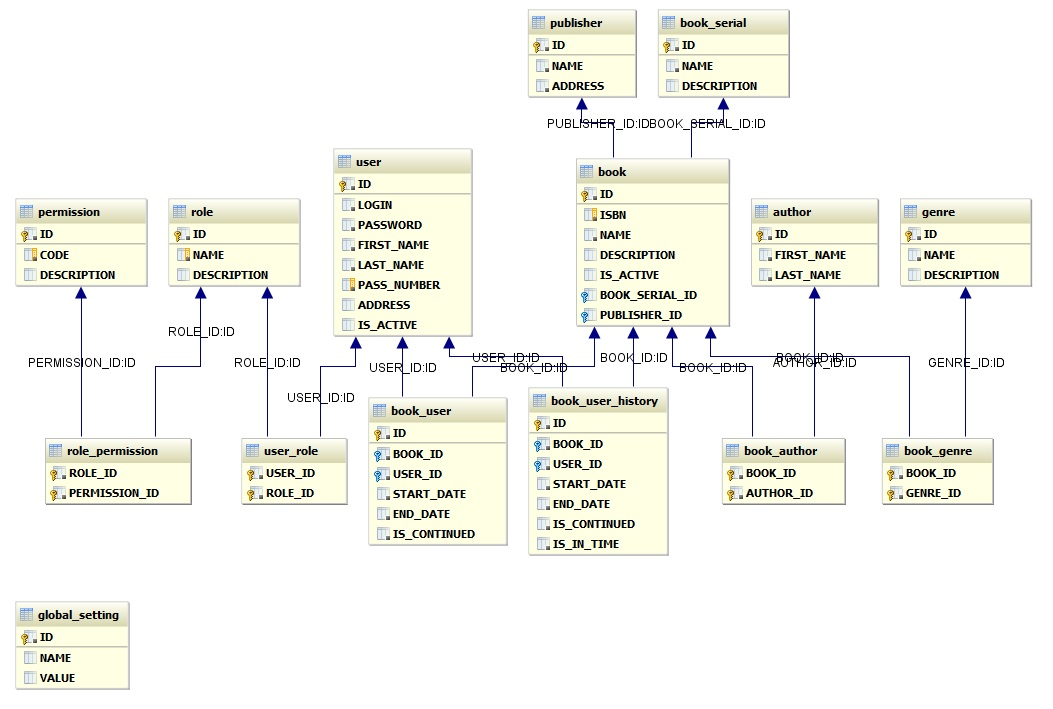
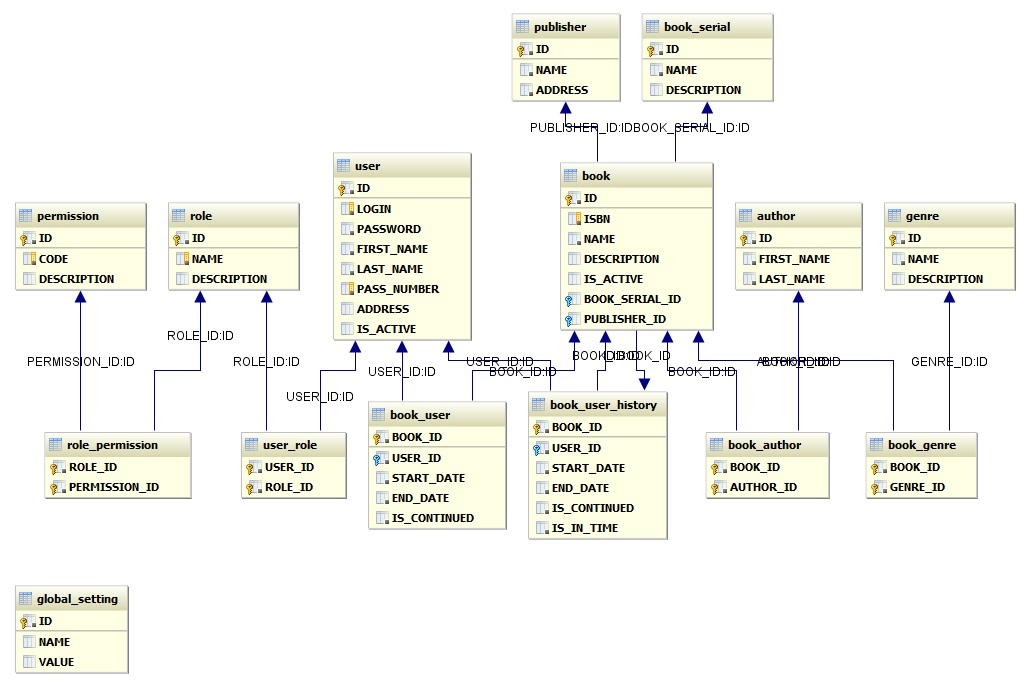
database schema updates

diff --git a/LibrarySystem/common/src/main/java/com/pvt/jd2/project/common/domain/BookUserHistory.java b/LibrarySystem/common/src/main/java/com/pvt/jd2/project/common/domain/BookUserHistory.java
@@ -11,8 +11,6 @@ import java.util.Date;
  */
 public class BookUserHistory implements Serializable {
 
-    private Long id;
-
     private Book book;
 
     private User user;
@@ -24,14 +22,6 @@ public class BookUserHistory implements Serializable {
     private boolean isContinued;
 
     private boolean isInTime;
-
-    public Long getId() {
-        return id;
-    }
-
-    public void setId(Long id) {
-        this.id = id;
-    }
 
     public Book getBook() {
         return book;
@@ -88,13 +78,13 @@ public class BookUserHistory implements Serializable {
 
         BookUserHistory that = (BookUserHistory) o;
 
-        if (id != null ? !id.equals(that.id) : that.id != null) return false;
+        if (book != null ? !book.equals(that.book) : that.book != null) return false;
 
         return true;
     }
 
     @Override
     public int hashCode() {
-        return id != null ? id.hashCode() : 0;
+        return book != null ? book.hashCode() : 0;
     }
 }

diff --git a/LibrarySystem/common/src/main/java/com/pvt/jd2/project/common/domain/BookUser.java b/LibrarySystem/common/src/main/java/com/pvt/jd2/project/common/domain/BookUser.java
@@ -11,8 +11,6 @@ import java.util.Date;
  */
 public class BookUser implements Serializable {
 
-    private Long id;
-
     private Book book;
 
     private User user;
@@ -22,14 +20,6 @@ public class BookUser implements Serializable {
     private Date endDate;
 
     private boolean isContinued;
-
-    public Long getId() {
-        return id;
-    }
-
-    public void setId(Long id) {
-        this.id = id;
-    }
 
     public Book getBook() {
         return book;
@@ -78,13 +68,13 @@ public class BookUser implements Serializable {
 
         BookUser bookUser = (BookUser) o;
 
-        if (id != null ? !id.equals(bookUser.id) : bookUser.id != null) return false;
+        if (book != null ? !book.equals(bookUser.book) : bookUser.book != null) return false;
 
         return true;
     }
 
     @Override
     public int hashCode() {
-        return id != null ? id.hashCode() : 0;
+        return book != null ? book.hashCode() : 0;
     }
 }

diff --git a/LibrarySystem/common/src/main/java/com/pvt/jd2/project/common/dao/BookUser.java b/LibrarySystem/common/src/main/java/com/pvt/jd2/project/common/dao/BookUser.java
@@ -1,0 +1,30 @@
+package com.pvt.jd2.project.common.dao;
+
+import com.pvt.jd2.project.common.domain.Book;
+import com.pvt.jd2.project.common.domain.User;
+import com.pvt.jd2.project.common.exceptions.DatabaseException;
+
+import java.util.Date;
+import java.util.List;
+
+/**
+ * Created with IntelliJ IDEA.
+ * User: Oleg
+ * Date: 24.01.14
+ * Time: 23:51
+ */
+public interface BookUser {
+
+    BookUser findByBook(Book book) throws DatabaseException;
+
+    List<BookUser> findByUser(User user) throws DatabaseException;
+
+    List<BookUser> findByStartDate(Date startDate) throws DatabaseException;
+
+    List<BookUser> findByEndDate(Date endDate) throws DatabaseException;
+
+    List<BookUser> findByIsContinued() throws DatabaseException;
+
+    List<BookUser> findByIsContinued(User user) throws DatabaseException;
+
+}
